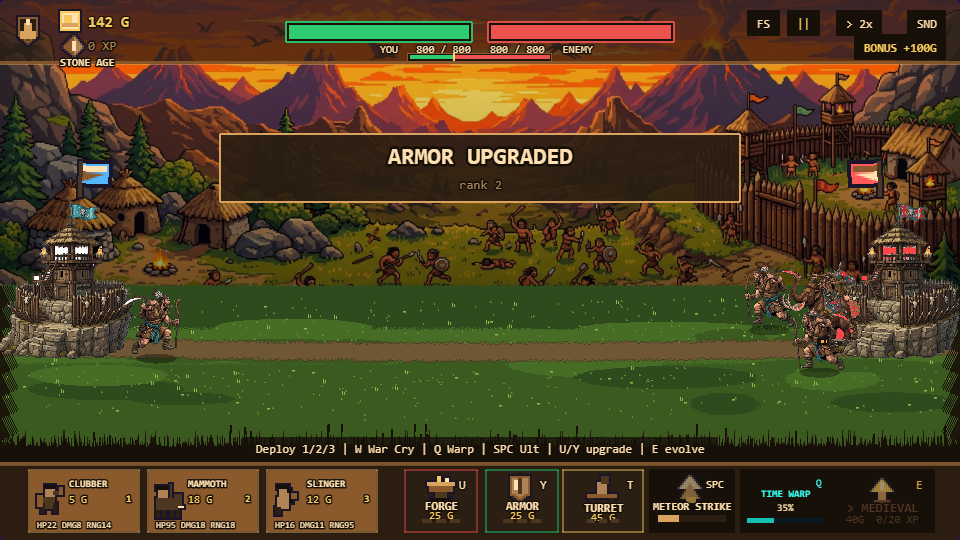
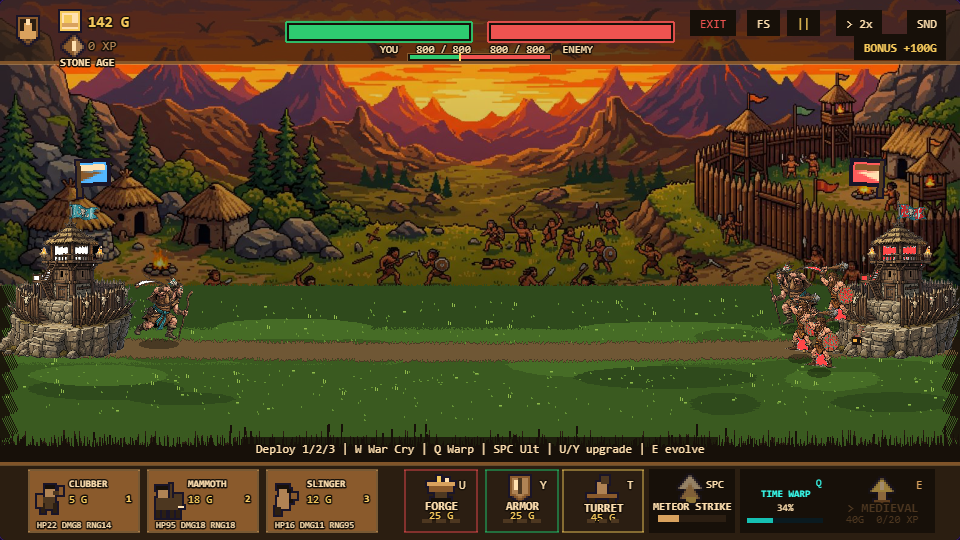
feat(gameplay): dynamic AI evolution, persistent exit HUD button, visual upgrade indicators, tower damage cracking, and punchy combat audio

diff --git a/src/audio/audio.ts b/src/audio/audio.ts
@@ -237,30 +237,19 @@ export class AudioEngine {
 
   sfxMeleeHit(): void {
     if (!this.ctx) return;
-    const dur = 0.09;
     const t = this.ctx.currentTime;
-    this.playToneAt(t, { type: 'sine', freqStart: 160, freqEnd: 45, dur: 0.08, vol: 0.35, attack: 0.001, decay: 0.07, dest: this.sfxGain });
-    const buffer = this.getOrMakeNoiseBuffer(0.2);
-    const src = this.ctx.createBufferSource();
-    src.buffer = buffer;
-    const filter = this.ctx.createBiquadFilter();
-    filter.type = 'lowpass';
-    filter.frequency.setValueAtTime(2200, t);
-    filter.frequency.exponentialRampToValueAtTime(180, t + dur);
-    const g = this.ctx.createGain();
-    g.gain.setValueAtTime(0.32, t);
-    g.gain.exponentialRampToValueAtTime(0.001, t + dur);
-    src.connect(filter); filter.connect(g); g.connect(this.sfxGain);
-    src.start(t); src.stop(t + dur);
+    this.playToneAt(t, { type: 'sine', freqStart: 180, freqEnd: 35, dur: 0.10, vol: 0.42, attack: 0.001, decay: 0.09, dest: this.sfxGain });
+    this.playToneAt(t, { type: 'triangle', freqStart: 850, freqEnd: 420, dur: 0.05, vol: 0.22, attack: 0.001, decay: 0.04, dest: this.sfxGain });
+    this.playNoiseAt(t, 0.08, 3200, 240, 0.28);
   }
 
   sfxCrit(): void {
     if (!this.ctx) return;
     const t = this.ctx.currentTime;
-    this.playToneAt(t, { type: 'sine', freqStart: 240, freqEnd: 38, dur: 0.22, vol: 0.45, attack: 0.001, decay: 0.2, dest: this.sfxGain });
-    this.playToneAt(t, { type: 'square', freqStart: 1800, freqEnd: 900, dur: 0.08, vol: 0.25, attack: 0.001, decay: 0.07, dest: this.sfxGain });
-    this.playToneAt(t + 0.03, { type: 'triangle', freqStart: 2489, freqEnd: 2489, dur: 0.25, vol: 0.22, attack: 0.002, decay: 0.22, dest: this.sfxGain });
-    this.playNoiseAt(t, 0.12, 4500, 800, 0.25);
+    this.playToneAt(t, { type: 'sine', freqStart: 280, freqEnd: 28, dur: 0.28, vol: 0.55, attack: 0.001, decay: 0.26, dest: this.sfxGain });
+    this.playToneAt(t, { type: 'sawtooth', freqStart: 1400, freqEnd: 420, dur: 0.14, vol: 0.32, attack: 0.001, decay: 0.12, dest: this.sfxGain });
+    this.playToneAt(t + 0.02, { type: 'triangle', freqStart: 2200, freqEnd: 1100, dur: 0.2, vol: 0.28, attack: 0.002, decay: 0.18, dest: this.sfxGain });
+    this.playNoiseAt(t, 0.18, 5500, 400, 0.35);
   }
 
   sfxDeath(): void {
@@ -327,18 +316,21 @@ export class AudioEngine {
     if (!this.ctx) return;
     const t = this.ctx.currentTime;
     if (age === 'modern') {
-      // Twin MG: a chamber boom under three fast cracks.
-      this.playToneAt(t, { type: 'square', freqStart: 190, freqEnd: 55, dur: 0.1, vol: 0.16, attack: 0.001, decay: 0.09, dest: this.sfxGain });
-      for (let i = 0; i < 3; i++) this.playNoiseAt(t + i * 0.05, 0.04, 5200, 1400, 0.13);
+      // Twin MG: heavy chamber boom under rapid explosive cracks.
+      this.playToneAt(t, { type: 'sine', freqStart: 160, freqEnd: 32, dur: 0.16, vol: 0.38, attack: 0.001, decay: 0.15, dest: this.sfxGain });
+      this.playToneAt(t, { type: 'square', freqStart: 240, freqEnd: 70, dur: 0.09, vol: 0.22, attack: 0.001, decay: 0.08, dest: this.sfxGain });
+      for (let i = 0; i < 3; i++) this.playNoiseAt(t + i * 0.05, 0.05, 5800, 1200, 0.22);
     } else if (age === 'medieval') {
-      // Ballista: rope snap, then a heavy wooden thunk.
-      this.playNoiseAt(t, 0.07, 2600, 700, 0.18);
-      this.playToneAt(t + 0.02, { type: 'triangle', freqStart: 210, freqEnd: 62, dur: 0.22, vol: 0.26, attack: 0.001, decay: 0.2, dest: this.sfxGain });
-      this.playNoiseAt(t + 0.02, 0.14, 900, 220, 0.14);
+      // Ballista: violent torsion snap, then massive structural bolt impact.
+      this.playNoiseAt(t, 0.08, 3000, 600, 0.28);
+      this.playToneAt(t + 0.01, { type: 'sine', freqStart: 180, freqEnd: 38, dur: 0.24, vol: 0.42, attack: 0.001, decay: 0.22, dest: this.sfxGain });
+      this.playToneAt(t + 0.02, { type: 'triangle', freqStart: 280, freqEnd: 80, dur: 0.22, vol: 0.30, attack: 0.001, decay: 0.2, dest: this.sfxGain });
+      this.playNoiseAt(t + 0.02, 0.16, 1200, 180, 0.24);
     } else {
-      // Sling: a whip crack, then the pouch releasing the rock.
-      this.playNoiseAt(t, 0.05, 3000, 900, 0.2);
-      this.playToneAt(t, { type: 'triangle', freqStart: 440, freqEnd: 150, dur: 0.13, vol: 0.2, attack: 0.001, decay: 0.12, dest: this.sfxGain });
+      // Sling: whip crack, then heavy stone release and thud.
+      this.playNoiseAt(t, 0.06, 3600, 800, 0.28);
+      this.playToneAt(t, { type: 'sine', freqStart: 220, freqEnd: 42, dur: 0.18, vol: 0.36, attack: 0.001, decay: 0.16, dest: this.sfxGain });
+      this.playToneAt(t, { type: 'triangle', freqStart: 480, freqEnd: 120, dur: 0.14, vol: 0.24, attack: 0.001, decay: 0.12, dest: this.sfxGain });
     }
   }
 
@@ -348,18 +340,19 @@ export class AudioEngine {
     const t = this.ctx.currentTime;
     if (kind === 'volley') {
       // Arrows saturating a zone: a rolling crackle under a descending drone.
-      for (let i = 0; i < 6; i++) this.playNoiseAt(t + i * 0.07, 0.1, 3200 - i * 240, 900, 0.12);
-      this.playToneAt(t, { type: 'sawtooth', freqStart: 260, freqEnd: 130, dur: 0.5, vol: 0.1, attack: 0.04, decay: 0.45, dest: this.sfxGain });
+      for (let i = 0; i < 8; i++) this.playNoiseAt(t + i * 0.06, 0.12, 3400 - i * 200, 700, 0.18);
+      this.playToneAt(t, { type: 'sawtooth', freqStart: 320, freqEnd: 110, dur: 0.6, vol: 0.18, attack: 0.03, decay: 0.55, dest: this.sfxGain });
+      this.playToneAt(t + 0.3, { type: 'sine', freqStart: 120, freqEnd: 30, dur: 0.5, vol: 0.35, attack: 0.01, decay: 0.45, dest: this.sfxGain });
     } else if (kind === 'airstrike') {
-      // Falling whistle, then a carpet of bombs going off.
-      this.playToneAt(t, { type: 'sine', freqStart: 1700, freqEnd: 220, dur: 0.45, vol: 0.13, attack: 0.03, decay: 0.44, dest: this.sfxGain });
-      for (let i = 0; i < 3; i++) this.playNoiseAt(t + 0.45 + i * 0.12, 0.34, 2000, 160, 0.26);
-      this.playToneAt(t + 0.45, { type: 'sine', freqStart: 150, freqEnd: 30, dur: 0.7, vol: 0.38, attack: 0.001, decay: 0.65, dest: this.sfxGain });
+      // Falling whistle, then a massive carpet bombing shockwave.
+      this.playToneAt(t, { type: 'sine', freqStart: 2100, freqEnd: 180, dur: 0.45, vol: 0.22, attack: 0.02, decay: 0.43, dest: this.sfxGain });
+      for (let i = 0; i < 4; i++) this.playNoiseAt(t + 0.42 + i * 0.11, 0.42, 2400, 120, 0.36);
+      this.playToneAt(t + 0.42, { type: 'sine', freqStart: 180, freqEnd: 24, dur: 0.9, vol: 0.55, attack: 0.001, decay: 0.85, dest: this.sfxGain });
     } else {
-      // Meteor: atmospheric entry, then a ground-shaking blast.
-      this.playToneAt(t, { type: 'sawtooth', freqStart: 80, freqEnd: 260, dur: 0.45, vol: 0.15, attack: 0.12, decay: 0.4, dest: this.sfxGain });
-      this.playNoiseAt(t + 0.45, 0.75, 2600, 110, 0.32);
-      this.playToneAt(t + 0.45, { type: 'sine', freqStart: 130, freqEnd: 24, dur: 0.85, vol: 0.42, attack: 0.001, decay: 0.8, dest: this.sfxGain });
+      // Meteor: atmospheric entry roar, then massive cataclysmic sub-blast.
+      this.playToneAt(t, { type: 'sawtooth', freqStart: 70, freqEnd: 340, dur: 0.45, vol: 0.24, attack: 0.1, decay: 0.4, dest: this.sfxGain });
+      this.playNoiseAt(t + 0.42, 0.9, 3200, 80, 0.45);
+      this.playToneAt(t + 0.42, { type: 'sine', freqStart: 160, freqEnd: 20, dur: 1.1, vol: 0.6, attack: 0.001, decay: 1.0, dest: this.sfxGain });
     }
   }
 

diff --git a/src/render/GameScene.ts b/src/render/GameScene.ts
@@ -79,6 +79,8 @@ interface UnitGfx {
   hpBarBg: Phaser.GameObjects.Rectangle;
   chev1: Phaser.GameObjects.Triangle;
   chev2: Phaser.GameObjects.Triangle;
+  forgePip: Phaser.GameObjects.Arc;
+  armorPip: Phaser.GameObjects.Arc;
   flashUntilMs: number;
   currentVet: number;
   dying: boolean;
@@ -947,8 +949,10 @@ export class GameScene extends Phaser.Scene {
       .setOrigin(0.5).setVisible(false);
     const chev1 = makeChev(-5);
     const chev2 = makeChev(5);
+    const forgePip = this.add.circle(hpW / 2 + 5, hpY, 2.5, 0xf4c85b).setOrigin(0.5).setVisible(false);
+    const armorPip = this.add.circle(-hpW / 2 - 5, hpY, 2.5, 0x38fff0).setOrigin(0.5).setVisible(false);
 
-    container.add([shadow, sprite, hpBarBg, hpBar, chev1, chev2]);
+    container.add([shadow, sprite, hpBarBg, hpBar, chev1, chev2, forgePip, armorPip]);
     container.setScale(0.2).setAlpha(0);
     this.tweens.add({
       targets: container,
@@ -962,7 +966,7 @@ export class GameScene extends Phaser.Scene {
     const hitW = Math.max(fit.w * PIXEL_SCALE, sprite.displayWidth);
     container.setInteractive(new Phaser.Geom.Rectangle(-hitW * 0.5, -targetH, hitW, targetH + 4), Phaser.Geom.Rectangle.Contains);
     const g: UnitGfx = {
-      id: u.id, container, sprite, shadow, hpBar, hpBarBg, chev1, chev2,
+      id: u.id, container, sprite, shadow, hpBar, hpBarBg, chev1, chev2, forgePip, armorPip,
       flashUntilMs: 0, currentVet: 0, dying: false, knock: 0, lastAttackTick: u.cooldown,
       hovered: false, wasFull: true, baseScale: unitScale,
     };
@@ -1158,6 +1162,8 @@ export class GameScene extends Phaser.Scene {
     const showBar = ratio < 1 || g.hovered;
     g.hpBar.setVisible(showBar);
     g.hpBarBg.setVisible(showBar);
+    g.forgePip.setVisible(showBar && owner.forgeRank > 0);
+    g.armorPip.setVisible(showBar && owner.armorRank > 0);
     g.wasFull = ratio >= 1;
 
     if (u.vet !== g.currentVet) {
@@ -1520,28 +1526,31 @@ export class GameScene extends Phaser.Scene {
 
     const towerLook = (img: Phaser.GameObjects.Image, ratio: number, flash: number, pal: ReturnType<typeof paletteFor>) => {
       if (flash > 0) img.setTint(0xffffff);
-      else if (ratio > 0.6) img.clearTint();
-      else if (ratio > 0.3) img.setTint(pal.body);
-      else img.setTint(pal.mid);
+      else if (ratio > 0.75) img.clearTint();
+      else if (ratio > 0.45) img.setTint(0xe6ded1);
+      else if (ratio > 0.20) img.setTint(pal.body);
+      else img.setTint(pal.highlight);
     };
     towerLook(this.playerBase, pRatio, this.playerBaseFlash, playerPalette);
     towerLook(this.aiBase, aRatio, this.aiBaseFlash, aiPalette);
 
-    if (pRatio < 0.4 && !this.smokePlayer.emitting) this.smokePlayer.start();
-    else if (pRatio >= 0.4 && this.smokePlayer.emitting) this.smokePlayer.stop();
-    if (pRatio < 0.4) this.smokePlayer.frequency = pRatio < 0.15 ? 140 : 320;
-    if (aRatio < 0.4 && !this.smokeAi.emitting) this.smokeAi.start();
-    else if (aRatio >= 0.4 && this.smokeAi.emitting) this.smokeAi.stop();
-    if (aRatio < 0.4) this.smokeAi.frequency = aRatio < 0.15 ? 140 : 320;
+    if (pRatio < 0.65 && !this.smokePlayer.emitting) this.smokePlayer.start();
+    else if (pRatio >= 0.65 && this.smokePlayer.emitting) this.smokePlayer.stop();
+    if (pRatio < 0.65) this.smokePlayer.frequency = pRatio < 0.20 ? 90 : pRatio < 0.40 ? 180 : 380;
+    if (aRatio < 0.65 && !this.smokeAi.emitting) this.smokeAi.start();
+    else if (aRatio >= 0.65 && this.smokeAi.emitting) this.smokeAi.stop();
+    if (aRatio < 0.65) this.smokeAi.frequency = aRatio < 0.20 ? 90 : aRatio < 0.40 ? 180 : 380;
 
     const baseY = laneGroundY(PLAYER_BASE_X) + 12;
     const aiBaseY = laneGroundY(AI_BASE_X) + 12;
     this.playerBase.y = baseY;
     this.aiBase.y = aiBaseY;
+    const pShudder = pRatio < 0.22 && this.sim.player.baseHp > 0 ? Math.sin(t * 18) * 1.5 : 0;
+    const aShudder = aRatio < 0.22 && this.sim.ai.baseHp > 0 ? Math.sin(t * 18 + 1) * 1.5 : 0;
     if (this.playerBaseFlash > 0) { this.playerBase.x = PLAYER_BASE_X + (Math.random() * 4 - 2); this.playerBaseFlash--; }
-    else this.playerBase.x = PLAYER_BASE_X;
+    else this.playerBase.x = PLAYER_BASE_X + pShudder;
     if (this.aiBaseFlash > 0) { this.aiBase.x = AI_BASE_X + (Math.random() * 4 - 2); this.aiBaseFlash--; }
-    else this.aiBase.x = AI_BASE_X;
+    else this.aiBase.x = AI_BASE_X + aShudder;
 
     this.playerFlag.x = this.playerBase.x + 10;
     this.aiFlag.x = this.aiBase.x - 10;

diff --git a/src/sim/sim.ts b/src/sim/sim.ts
@@ -1090,8 +1090,19 @@ function chooseBotIntent(state: SimState, side: Side, rng: RNG, profile: BotProf
     return { type: 'turret', side };
   }
 
+  // Evolution check: evolve promptly once eligible!
+  if (canEvolve(state, side)) {
+    return { type: 'evolve', side };
+  }
+
+  // Check if AI has the XP needed for the next age and is saving gold
+  const nextAgeIdx = AGE_ORDER.indexOf(me.age) + 1;
+  const nextAge = nextAgeIdx < AGE_ORDER.length ? AGE_ORDER[nextAgeIdx] : null;
+  const isSavingForAge = nextAge !== null && me.xp >= EVOLVE_XP_REQ[nextAge];
+  const evolveCost = nextAge ? EVOLVE_COST[nextAge] : 0;
+
   // Upgrades — skipped while saving for an age-up so evolution is not starved.
-  if (!canEvolve(state, side) && (me.forgeRank < MAX_UPGRADE_RANK || me.armorRank < MAX_UPGRADE_RANK)) {
+  if (!isSavingForAge && (me.forgeRank < MAX_UPGRADE_RANK || me.armorRank < MAX_UPGRADE_RANK)) {
     const hpRatio = me.baseHp / BASE_HP;
     const wantArmor = hpRatio < 0.75 && me.armorRank <= me.forgeRank;
     const picks: Array<'forge' | 'armor'> = wantArmor ? ['armor', 'forge'] : ['forge', 'armor'];
@@ -1102,10 +1113,6 @@ function chooseBotIntent(state: SimState, side: Side, rng: RNG, profile: BotProf
     }
   }
 
-  if (canEvolve(state, side) && rng.next() < 0.4) {
-    return { type: 'evolve', side };
-  }
-
   // Counter-composition: lean into whatever beats what the enemy is fielding.
   const weights: Array<readonly [UnitRole, number]> = [
     ['swarm', Math.max(0.12, profile.weights.swarm * (1 + theirs.ranged * 1.1 - mine.swarm * 0.5))] as const,
@@ -1113,7 +1120,9 @@ function chooseBotIntent(state: SimState, side: Side, rng: RNG, profile: BotProf
     ['ranged', Math.max(0.12, profile.weights.ranged * (1 + theirs.tank * 1.1 - mine.ranged * 0.5))] as const,
   ];
 
-  const reserve = (1 - profile.aggression) * 18;
+  // Protect evolution gold reserve unless base integrity is in critical danger
+  const baseDanger = me.baseHp < BASE_HP * 0.35;
+  const reserve = isSavingForAge && !baseDanger ? evolveCost : (1 - profile.aggression) * 18;
   for (let tries = 0; tries < 4; tries++) {
     const role = rng.weighted(weights);
     const def = UNIT_DEFS[me.age][role];

diff --git a/src/render/Hud.ts b/src/render/Hud.ts
@@ -188,6 +188,7 @@ export class Hud {
   private pauseOverlay?: Phaser.GameObjects.Container;
   private speedBtn!: Phaser.GameObjects.Text;
   private pauseBtn!: Phaser.GameObjects.Text;
+  private exitBtn!: Phaser.GameObjects.Text;
   private bonusBtn!: Phaser.GameObjects.Text;
   private musicOn = true;
   private currentTheme: 'stone' | 'medieval' | 'modern' = 'stone';
@@ -293,6 +294,12 @@ export class Hud {
     fsBtn.on('pointerdown', () => this.onToggleFullscreen?.());
     fsBtn.on('pointerover', () => fsBtn.setStyle({ color: '#f4c85b' }));
     fsBtn.on('pointerout', () => fsBtn.setStyle({ color: '#ffe0b0' }));
+
+    this.exitBtn = s.add.text(w - 224, 10, 'EXIT', { ...btnStyle, color: '#ef5350' })
+      .setOrigin(1, 0).setDepth(10).setInteractive({ useHandCursor: true });
+    this.exitBtn.on('pointerdown', () => this.onMenuRequest?.());
+    this.exitBtn.on('pointerover', () => this.exitBtn.setStyle({ color: '#ff8a80' }));
+    this.exitBtn.on('pointerout', () => this.exitBtn.setStyle({ color: '#ef5350' }));
 
     // Action bar
     const roles: UnitRole[] = ['swarm', 'tank', 'ranged'];
